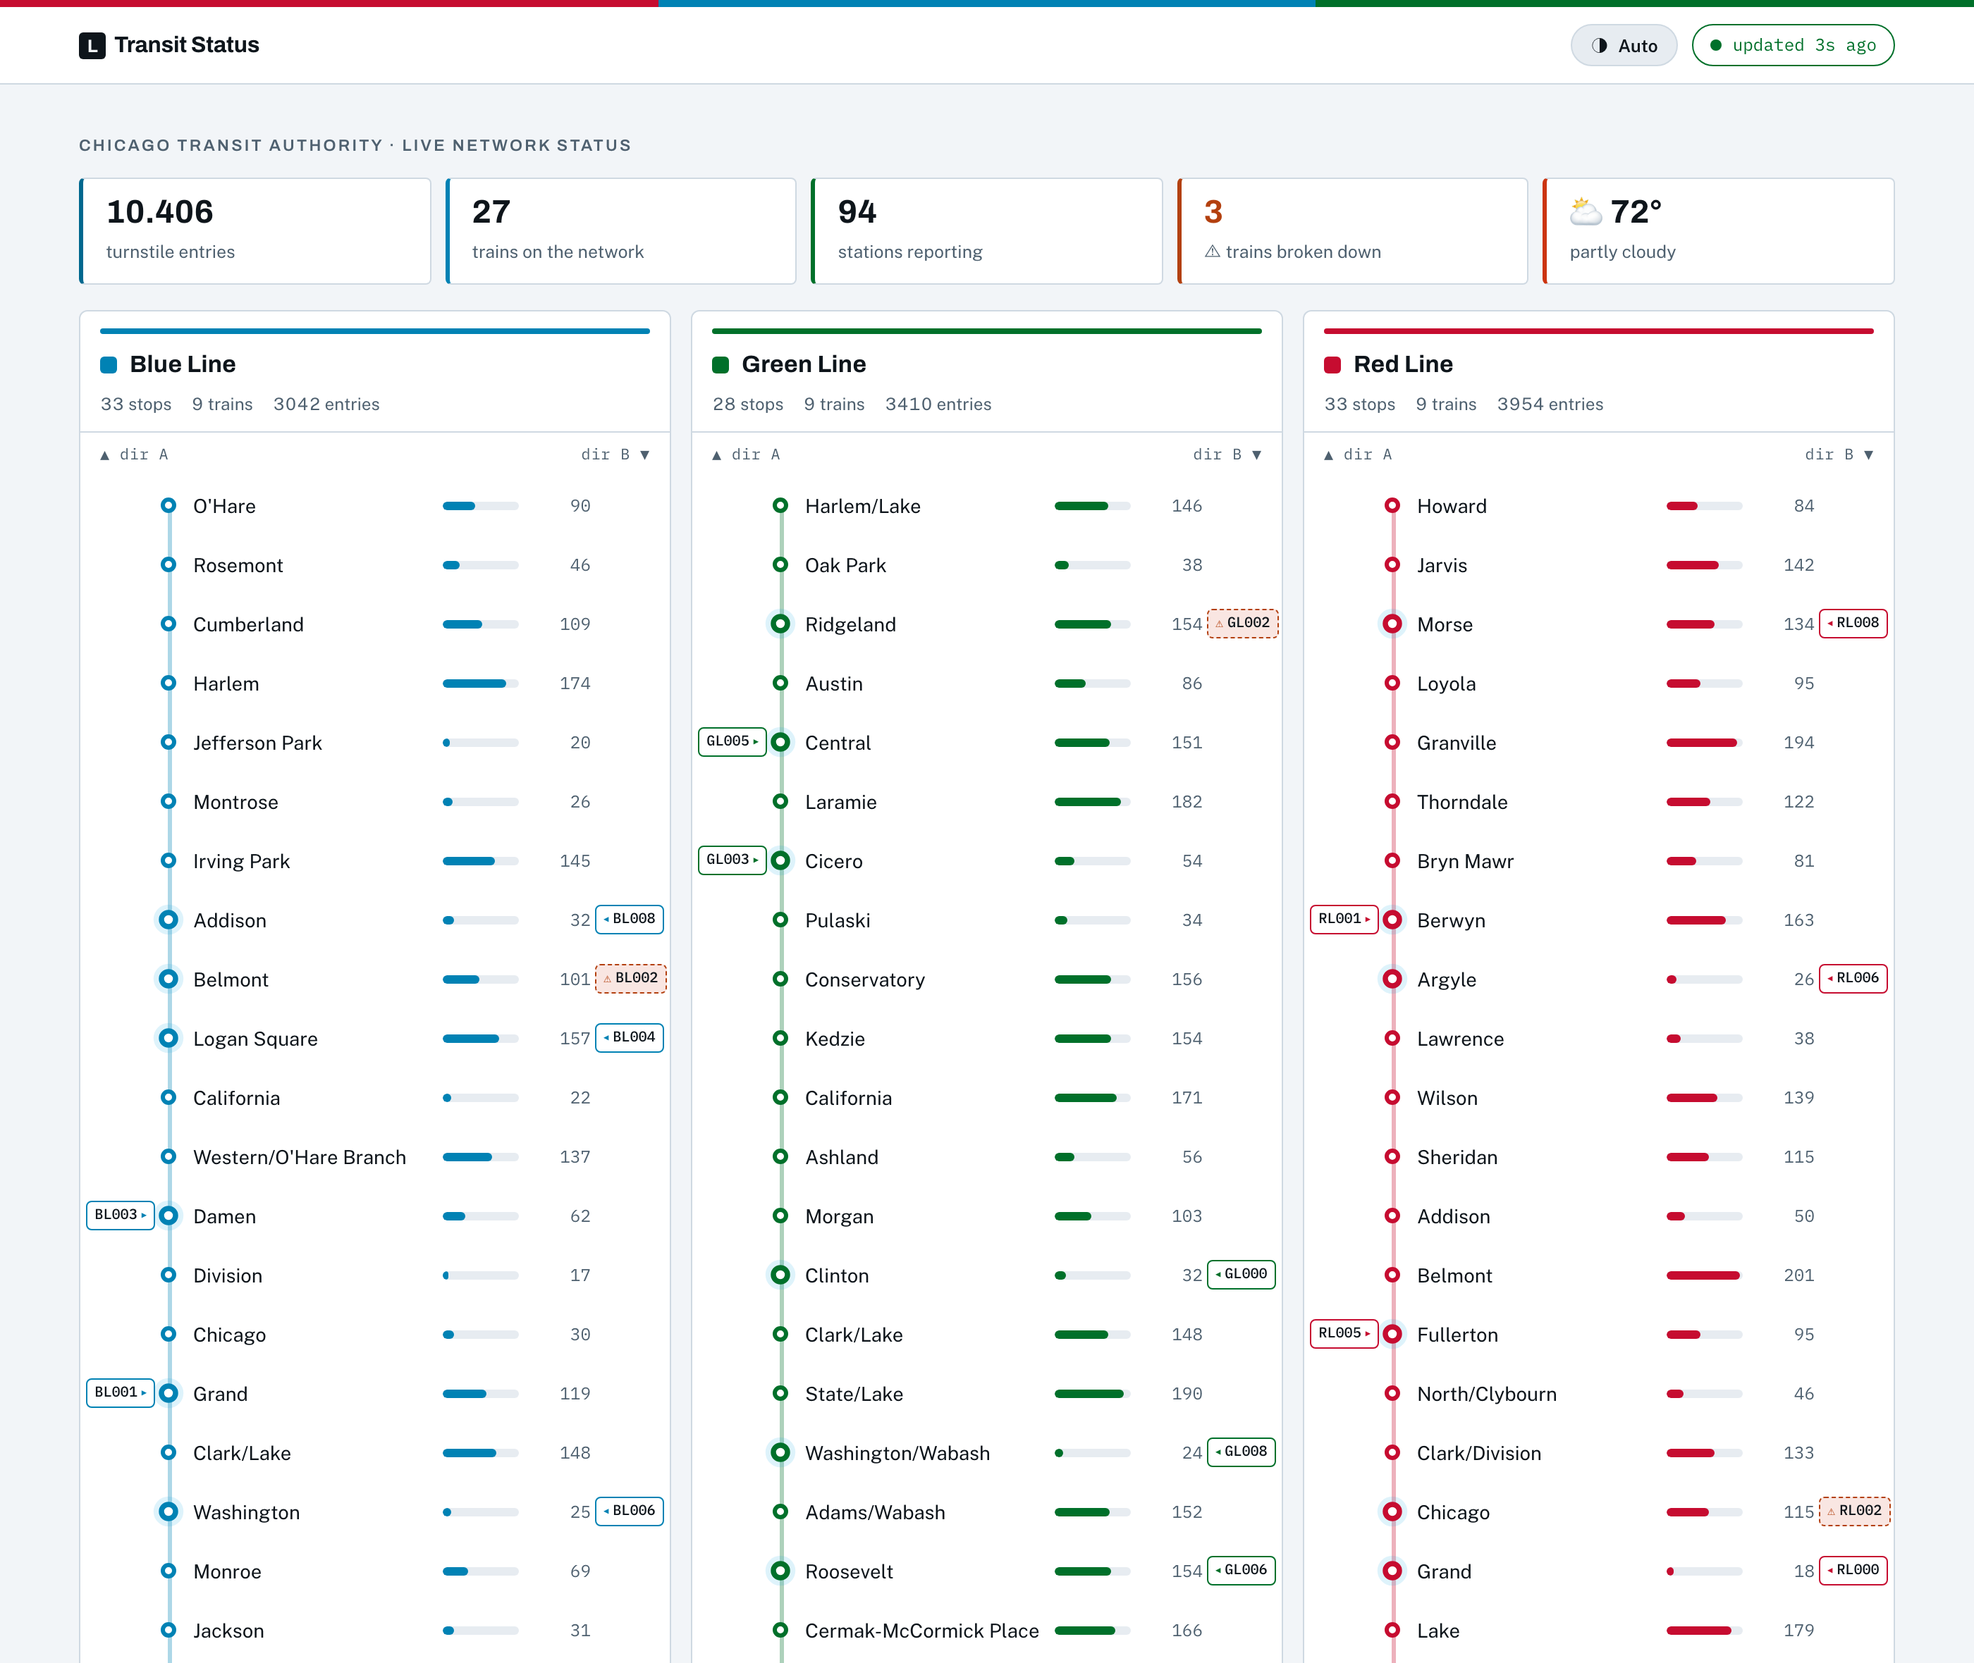
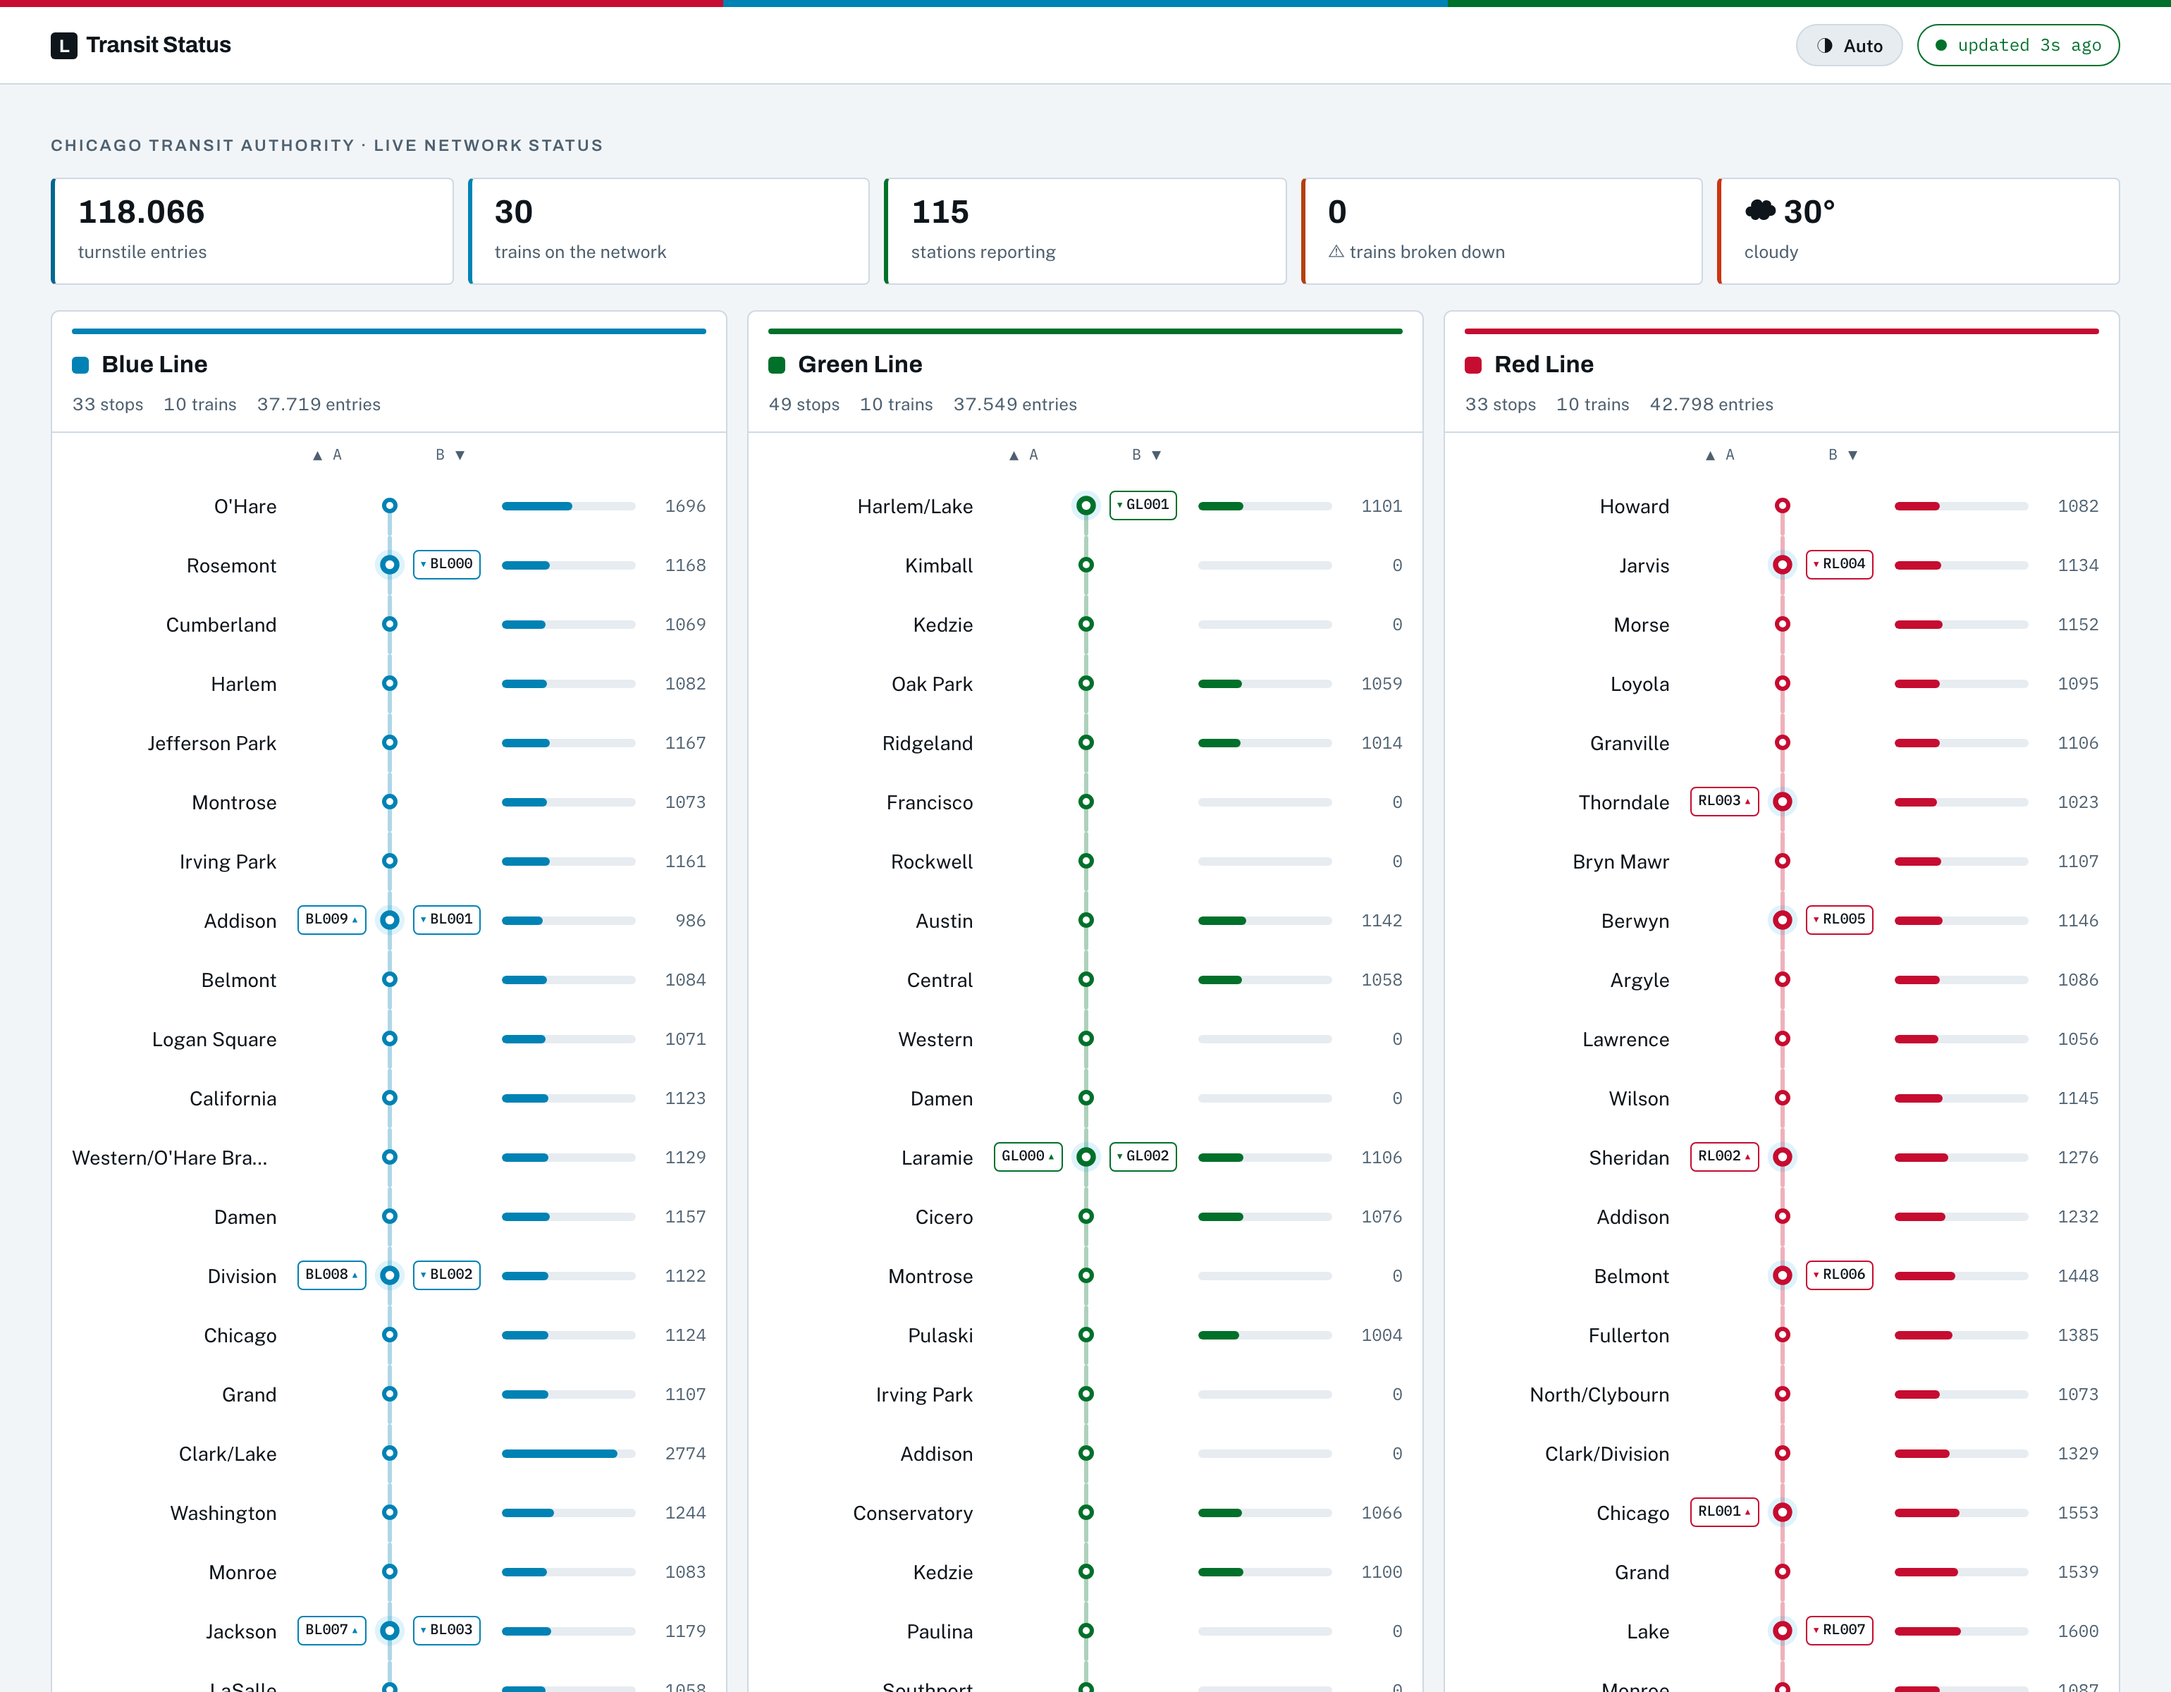
Centre the rail and put a direction either side of it
The first cut hung everything off a rail pinned to the left edge: direction A
sat outside it, then the dot, then the station name, and direction B ended up
on the far side of the riders column. The two directions were drawn the same
but were nowhere near each other, so the rail read as a margin decoration
rather than as the line the trains run on.

The row is now `name | dir A | rail | dir B | riders`, with the two lane
columns the same width so the rail lands in the middle and the directions
mirror each other across it. A train either side of a stop reads at a glance
as two trains passing, which is what it is.

The rail is drawn one segment per row instead of as a single line down the
column, so it tracks the dot wherever the grid puts it rather than needing a
hardcoded offset that every future column change would have to keep in step
with. Train markers carry the travel direction, matching the A/B key above
the rail, now that up and down mean something on screen.

The cost is the name column: it is half the row rather than most of it, so
the longest names ellipsis where they did not before. The full name is on the
row's title.

diff --git a/consumers/static/dashboard.css b/consumers/static/dashboard.css
@@ -32,7 +32,8 @@
   --font-mono: "IBM Plex Mono", ui-monospace, "SF Mono", Menlo, monospace;
 
   --stop-pitch: 42px;
-  --lane: 56px;
+  --stop-gap: 9px;
+  --lane: 54px;
 
   padding-top: env(safe-area-inset-top, 0px);
   padding-bottom: env(safe-area-inset-bottom, 0px);
@@ -92,7 +93,7 @@ body {
 a { color: var(--accent); }
 
 .wrap {
-  max-width: 1320px;
+  max-width: 1500px;
   margin: 0 auto;
   padding-left: max(16px, env(safe-area-inset-left, 0px));
   padding-right: max(16px, env(safe-area-inset-right, 0px));
@@ -219,7 +220,7 @@ body::before {
 /* ---- the board ---- */
 .board {
   display: grid;
-  grid-template-columns: repeat(auto-fit, minmax(330px, 1fr));
+  grid-template-columns: repeat(auto-fit, minmax(340px, 1fr));
   gap: 14px;
   align-items: start;
 }
@@ -271,65 +272,94 @@ body::before {
   margin-top: 4px;
 }
 .dir-key {
-  display: flex; justify-content: space-between;
+  display: grid;
+  grid-template-columns:
+    minmax(0, 1fr) var(--lane) 15px var(--lane) minmax(0, 1fr);
+  gap: var(--stop-gap);
   font-family: var(--font-mono); font-size: 0.68rem;
   color: var(--fg-muted);
   padding: 7px 14px 0;
   letter-spacing: 0.04em;
+  text-align: center;
 }
+.dir-key .k-a { grid-column: 2; }
+.dir-key .k-b { grid-column: 4; }
 
 /* ---- rail ---- */
 .rail {
   position: relative;
-  padding: 6px var(--lane) 12px;
+  padding: 6px 14px 12px;
 }
 .stops { position: relative; }
-.stops::before {
+
+/* name | dir A | rail | dir B | riders. The two lane columns are the same
+   width, so the rail lands in the middle of the card and the two directions
+   read as mirror images either side of it. */
+.stop-row {
+  display: grid;
+  grid-template-columns:
+    minmax(0, 1fr) var(--lane) 15px var(--lane) minmax(0, 1fr);
+  align-items: center;
+  gap: var(--stop-gap);
+  height: var(--stop-pitch);
+  position: relative;
+}
+
+/* The rail is drawn one segment per row rather than as a single line down the
+   column, so it follows the dot wherever the grid puts it. */
+.stop-dot {
+  grid-column: 3;
+  position: relative;
+  height: 100%;
+  display: grid;
+  place-items: center;
+}
+.stop-dot::before {
   content: "";
   position: absolute;
-  left: 6px;
-  top: calc(var(--stop-pitch) / 2);
-  bottom: calc(var(--stop-pitch) / 2);
+  top: 0; bottom: 0; left: 50%;
   width: 3px;
+  margin-left: -1.5px;
   border-radius: 2px;
   background: var(--hue);
   opacity: 0.32;
 }
-
-.stops.is-empty::before { display: none; }
-
-.stop-row {
-  display: grid;
-  grid-template-columns: 15px minmax(0, 1fr) 54px 42px;
-  align-items: center;
-  gap: 9px;
-  height: var(--stop-pitch);
+.stop-row:first-child .stop-dot::before { top: 50%; }
+.stop-row:last-child .stop-dot::before { bottom: 50%; }
+.stop-dot::after {
+  content: "";
   position: relative;
-}
-.stop-dot {
   width: 11px; height: 11px;
   border-radius: 50%;
   background: var(--surface);
   border: 3px solid var(--hue);
   box-sizing: border-box;
-  justify-self: start;
-  margin-left: 1px;
   transition: transform 0.3s ease, box-shadow 0.3s ease;
 }
-.stop-row.is-occupied .stop-dot {
+.stop-row.is-occupied .stop-dot::after {
   transform: scale(1.25);
   box-shadow: 0 0 0 3px var(--accent-soft);
 }
 .stop-name {
+  grid-column: 1;
+  text-align: right;
   font-size: 0.86rem;
   white-space: nowrap;
   overflow: hidden;
   text-overflow: ellipsis;
 }
+.stop-metric {
+  grid-column: 5;
+  display: flex;
+  align-items: center;
+  gap: 8px;
+  min-width: 0;
+}
 
-/* Turnstile magnitude: length carries the value, the hue only says which
-   line it belongs to. The number is always present next to the bar. */
+
 .meter {
+  flex: 1;
+  min-width: 0;
   height: 6px;
   border-radius: 3px;
   background: var(--surface-2);
@@ -344,6 +374,8 @@ body::before {
   transition: width 0.7s cubic-bezier(0.4, 0, 0.2, 1);
 }
 .stop-val {
+  flex: none;
+  width: 42px;
   font-family: var(--font-mono);
   font-size: 0.76rem;
   font-variant-numeric: tabular-nums;
@@ -358,8 +390,8 @@ body::before {
   width: var(--lane);
   pointer-events: none;
 }
-.lane-a { left: 0; }
-.lane-b { right: 0; }
+.lane-a { right: calc(50% + 7.5px + var(--stop-gap)); }
+.lane-b { left: calc(50% + 7.5px + var(--stop-gap)); }
 
 .train {
   position: absolute;
@@ -384,10 +416,10 @@ body::before {
   transition: transform 0.85s cubic-bezier(0.4, 0, 0.2, 1), opacity 0.35s ease;
 }
 .train.is-in { opacity: 1; }
-.lane-a .train { right: 3px; }
-.lane-b .train { left: 3px; }
-.lane-a .train::after { content: "\25B6"; color: var(--hue); font-size: 0.6em; }
-.lane-b .train::before { content: "\25C0"; color: var(--hue); font-size: 0.6em; }
+.lane-a .train { right: 0; }
+.lane-b .train { left: 0; }
+.lane-a .train::after { content: "\25B2"; color: var(--hue); font-size: 0.6em; }
+.lane-b .train::before { content: "\25BC"; color: var(--hue); font-size: 0.6em; }
 
 /* Broken down: dashed outline + glyph + a title, never colour on its own. */
 .train.is-broken {
@@ -424,9 +456,10 @@ body::before {
 footer.site { margin-top: 10px; border-top: 1px solid var(--rule); background: var(--surface); }
 .foot { padding-block: 20px; color: var(--fg-muted); font-size: 0.84rem; }
 
-@media (max-width: 420px) {
-  :root { --lane: 46px; }
-  .stop-row { grid-template-columns: 15px minmax(0, 1fr) 40px 38px; }
+@media (max-width: 560px) {
+  :root { --lane: 46px; --stop-gap: 6px; }
+  .stop-name { font-size: 0.8rem; }
+  .stop-val { width: 36px; font-size: 0.72rem; }
 }
 
 @media (prefers-reduced-motion: reduce) {

diff --git a/consumers/static/dashboard.js b/consumers/static/dashboard.js
@@ -69,7 +69,8 @@
 
     var key = document.createElement("div");
     key.className = "dir-key";
-    key.innerHTML = "<span>▲ dir A</span><span>dir B ▼</span>";
+    key.innerHTML =
+      '<span class="k-a">▲ A</span><span class="k-b">B ▼</span>';
     col.appendChild(key);
 
     var rail = document.createElement("div");
@@ -120,10 +121,12 @@
       var row = document.createElement("div");
       row.className = "stop-row";
       row.innerHTML =
-        '<span class="stop-dot" aria-hidden="true"></span>' +
         '<span class="stop-name"></span>' +
+        '<span class="stop-dot" aria-hidden="true"></span>' +
+        '<span class="stop-metric">' +
         '<span class="meter"><i></i></span>' +
-        '<span class="stop-val"></span>';
+        '<span class="stop-val"></span>' +
+        "</span>";
       row.querySelector(".stop-name").textContent = station.name;
       rec.stops.appendChild(row);
       rec.rows.set(station.id, {
